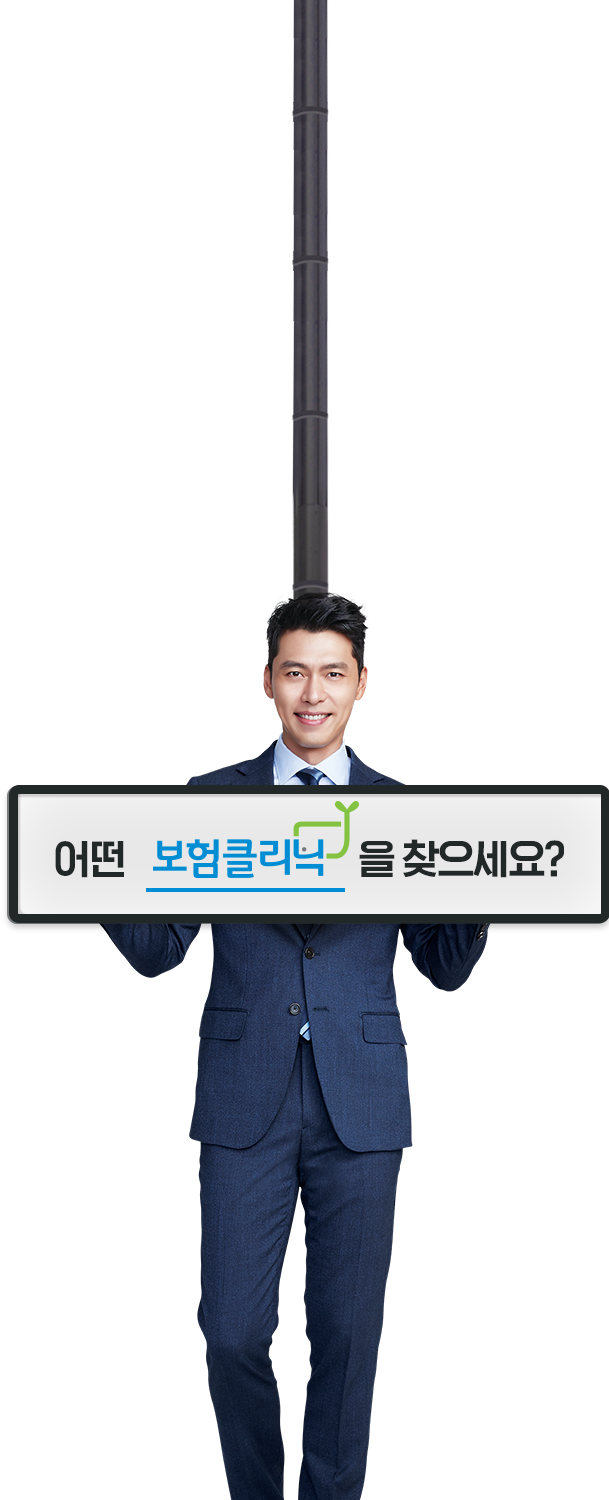
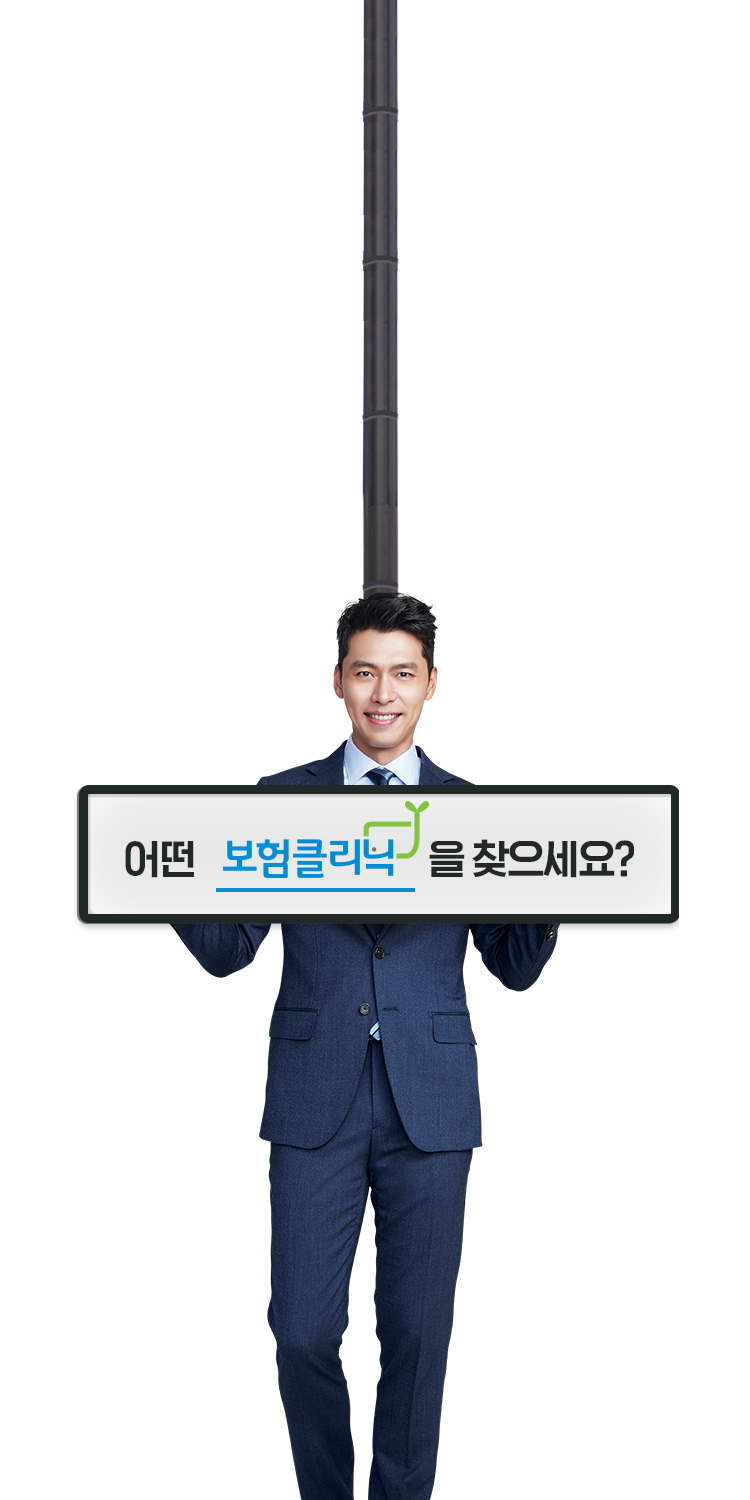
모델 이미지 크기 변경

diff --git a/css/gate/style.css b/css/gate/style.css
@@ -15,7 +15,7 @@ body {}
 /* swiper */
 #secVisual {position:fixed;width:100%;height:100%}
 #secVisual .swiper-container {height:100%}
-#secVisual .swiper-slide:nth-child(2) {background:url('/img/gate_2020/visual_sign_model.png') 50% 100% no-repeat;background-size:85.42vw}
+#secVisual .swiper-slide:nth-child(2) {background:url('/img/gate_2020/visual_sign_model.png') 50% 100% no-repeat;background-size:100vw}
 #secVisual .parallax-bg {position: absolute;width:calc(var(--vh, 1vh) * 215);height:calc(var(--vh, 1vh) * 100);background-size:100%}
 
 /* swiper - Pagination */
